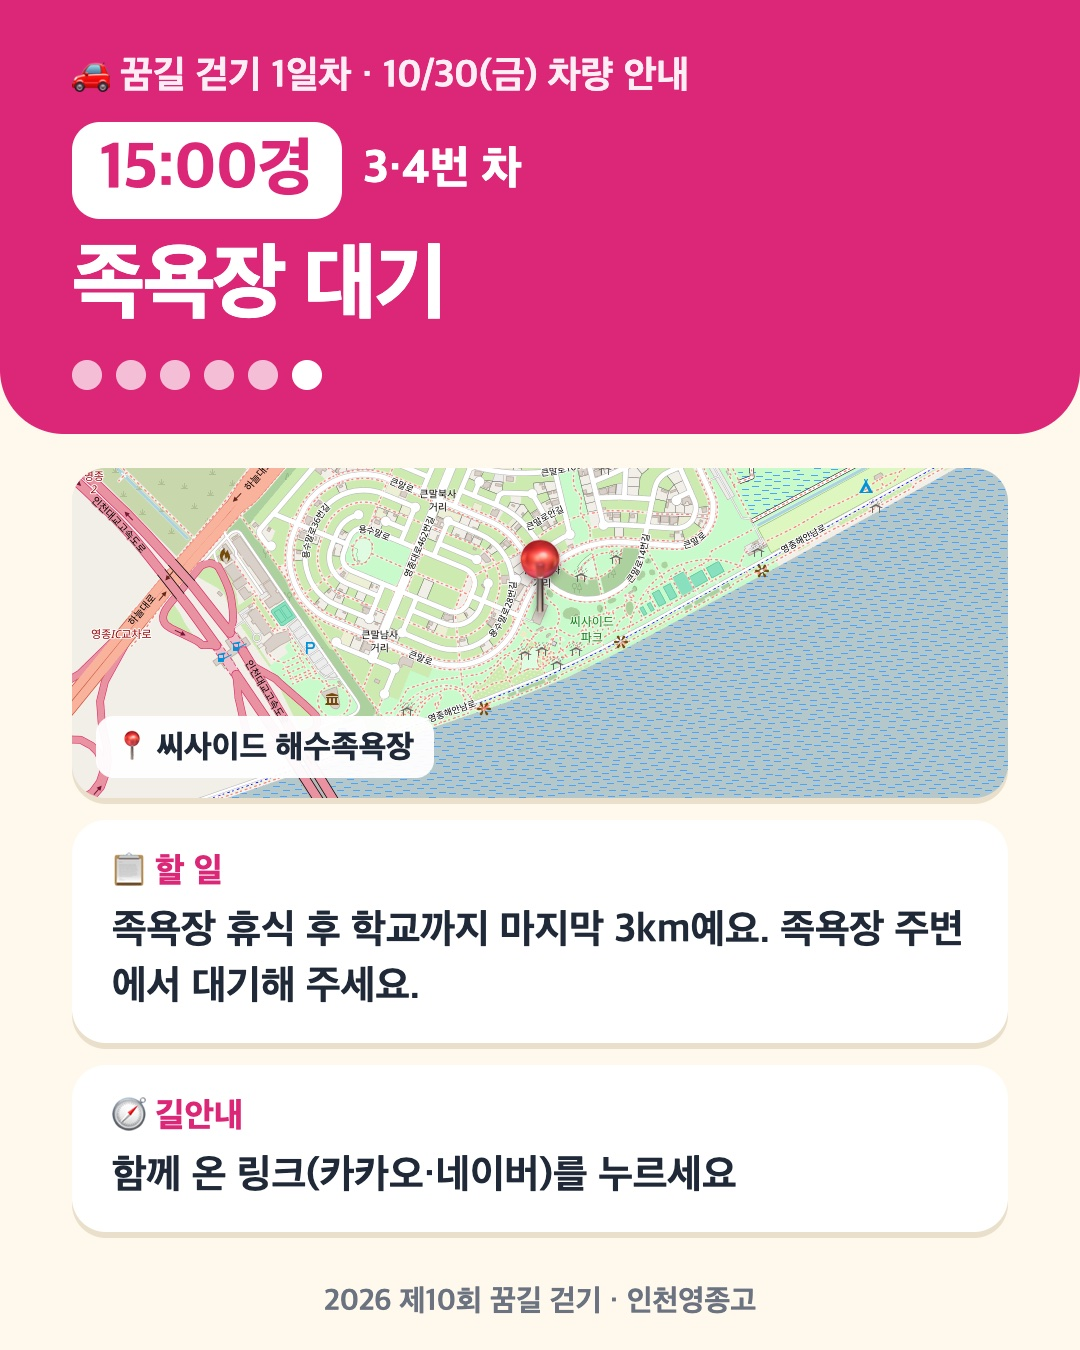
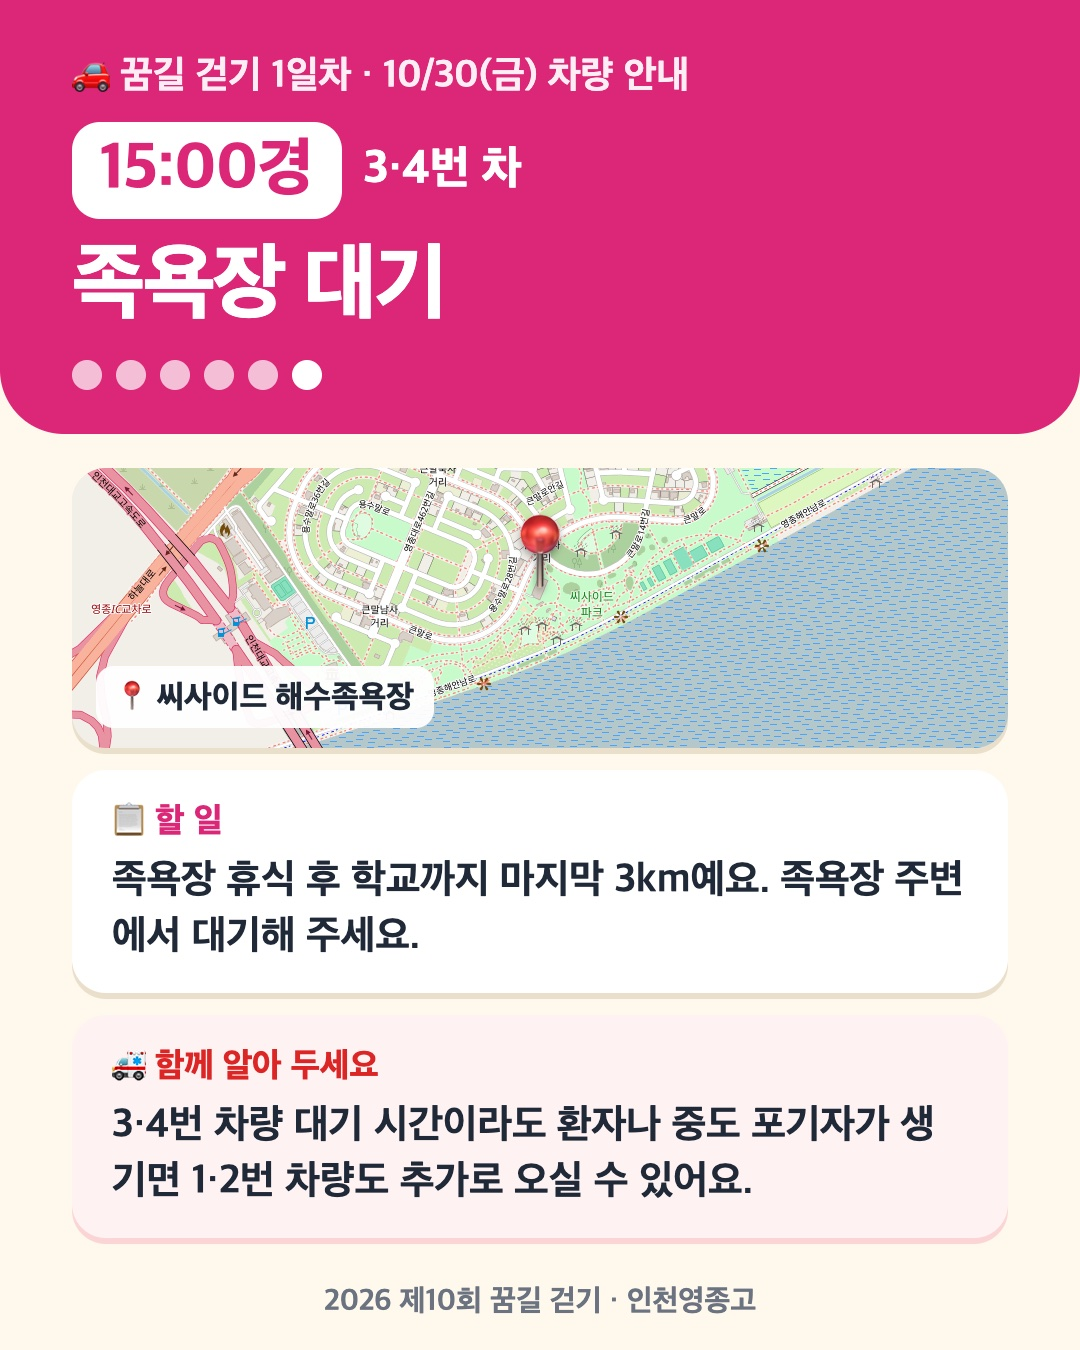
walk: 차량 카드 길안내 칸 → 다른 차량 추가 출동 안내, 페이지 이미지 미리보기 복원

Changed region(s): [[0.0611, 0.3422, 0.9472, 0.9333]]

diff --git a/walk/car.html b/walk/car.html
@@ -63,6 +63,7 @@ button,a{font-family:inherit}
     <b>공통</b><br>
     · 시간은 «○○경» — 선두 위치에 따라 앞뒤로 바뀔 수 있어요. 단톡방 연락을 꼭 확인해 주세요.<br>
     · 대기 중 아픈 학생·지친 학생이 생기면 연락받고 바로 이동합니다.<br>
+    · 1·2번(또는 3·4번) 차 대기 시간이라도 환자나 중도 포기자가 생기면 다른 차량도 추가로 오실 수 있어요.<br>
     · 다음 장소로 이동할 때 단톡에 «○번 차 ○○ 출발» 한 줄 남겨 주세요.
   </div>
 </div>
@@ -110,7 +111,7 @@ function draw(){
     var tg=s.c==='12'?'<span class="tag a12">1·2번 차</span>':'<span class="tag a34">3·4번 차</span>';
     var b='<div class="btns"><a class="kk" href="'+kk(s.p,s.lat,s.lng)+'" target="_blank">카카오 길안내</a><a class="nv" href="'+nv(s.p,s.lat,s.lng)+'" target="_blank">네이버 길안내</a></div>';
     if(s.to)b+='<p style="margin-top:12px;font-weight:800">태운 뒤 → '+esc(s.to.p)+'</p><div class="btns"><a class="kk" href="'+kk(s.to.p,s.to.lat,s.to.lng)+'" target="_blank">카카오 길안내</a><a class="nv" href="'+nv(s.to.p,s.to.lat,s.to.lng)+'" target="_blank">네이버 길안내</a></div>';
-    b+='<button class="sh" onclick="share('+i+')">📤 카드 + 길안내 카톡으로 보내기</button>';
+    b+='<img class="im" src="car/'+IMG[i]+'.jpg" alt="" loading="lazy"><button class="sh" onclick="share('+i+')">📤 카드 + 길안내 카톡으로 보내기</button>';
     return '<div class="card'+(i===nowI?' now':'')+'"><div class="ch"><div class="tm">'+s.t.replace('~','~<br>')+'</div><div class="ct"><b>'+esc(s.n)+'</b><small>📍 '+esc(s.p)+'</small></div>'+tg+'</div><div class="body"><p>'+esc(s.d)+'</p>'+b+'</div></div>';
   }).join('');
 }

diff --git a/walk/sw.js b/walk/sw.js
@@ -7,7 +7,7 @@
      · 내 파일(코스·사진·화면)  → 저장해 둔 것을 «먼저» 주고, 뒤에서 조용히 갱신
      · 카카오 지도 타일         → 저장하지 않는다(약관·용량). 신호 없으면 지도만 안 보인다
    ══════════════════════════════════════════════════════════════ */
-const V = 'kkumgil-v117';
+const V = 'kkumgil-v118';
 const CORE = ['./', './index.html', './courses.json', './course-day1.json', './course-day2.json',
               './manifest.json', './icon-192.png', './icon-512.png', './stamps.json',
               './hero.jpg', './t-poem.jpg', './t-catch.jpg', './t-shirt-dpw2.jpg',
